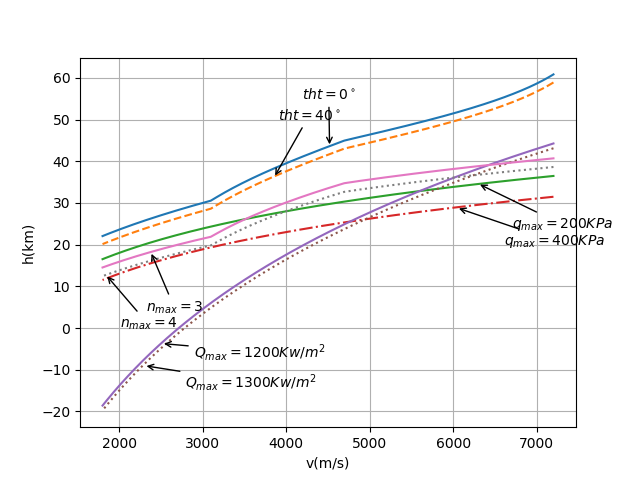
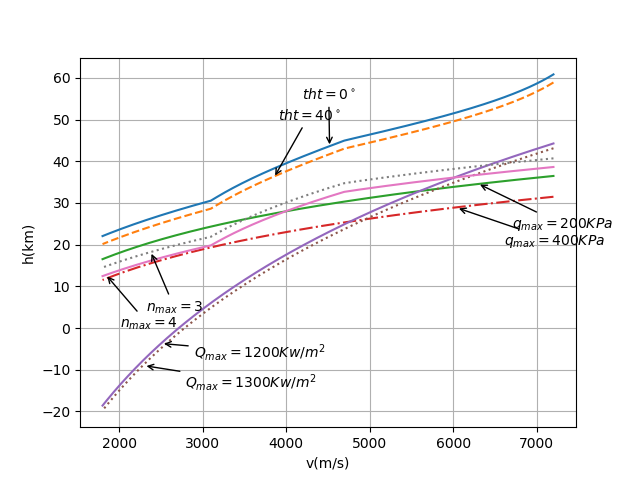
修正模型中复合走廊的单位错误

Changed region(s): [[0.1562, 0.3125, 0.875, 0.5938]]

diff --git a/aircraft_obj.py b/aircraft_obj.py
@@ -221,19 +221,21 @@ class AircraftEnv(CAV):
         # 返回弹道记录
         state_now = self.reset()
         state_record = state_now.copy()
+        control = [22]
         v2h_down = interp1d(self.vv, self.h_down, kind='quadratic')
         v2h_up = interp1d(self.vv, self.h_up, kind='quadratic')
         h_refs = []
         h_cmds = []
         # 追踪参数
-        cmd_p = 0.5
+        cmd_p = 0.8
         cmd_i = 0.2
-        lambda_h = 1
+        lambda_h = 0.01
+        info = {}
         while True:
             v = self.x[3]
             h_ref = (1 - w) * v2h_down(min(v, self.v0)) + w * v2h_up(min(v, self.v0))  # m
             if v > 7000:
-                tht = 0
+                tht = 22 / 57.3
                 h_cmd = h_ref
             else:
                 h_cmd = (1 - cmd_p) * h_cmds[-1] + cmd_p * h_ref + cmd_i * self.delta_t * (h_cmds[-1] - h_refs[-1])
@@ -259,15 +261,17 @@ class AircraftEnv(CAV):
 
                 cos_tht = ((h_dot2 - v_dot * math.sin(theta)) / math.cos(theta) +
                            (g - v ** 2 / r) * math.cos(theta)) * self.m0 / l
-                cos_tht = cos_tht if (-1 <= cos_tht <= 1) else (1 if cos_tht > 1 else -1)
+                cos_tht = cos_tht if (0 <= cos_tht <= 1) else (1 if cos_tht > 1 else 0)
                 tht = math.acos(cos_tht if math.fabs(cos_tht) <= 1 else 1)  # 弧度
             h_refs.append(h_ref)
             h_cmds.append(h_cmd)
-            state_now, reward, done, info = self.step(tht)
+            control.append(tht * 57.3)
+            state_now, reward, done, info = self.step(tht * 57.3)
             state_record = np.vstack((state_record, state_now.copy()))  # 垂直添加
             if done:
                 break
-        return state_record.copy()
+        info['control'] = np.array(control)
+        return state_record.copy(), info
 
     def h2tht(self):
         # 设计倾侧角来跟踪高度
@@ -292,7 +296,7 @@ class AircraftEnv(CAV):
         # 对几个典型的走廊进行对比
         # tht[0,40] n_max[3,4] Q_max[1200,1300] q_max[200,240]
         thts = [0, 40 / 180 * math.pi]
-        n_maxs = [3, 4]
+        n_maxs = [4, 3]
         Q_maxs = [1200, 1300]
         q_maxs = [200, 400]
 
@@ -305,7 +309,8 @@ class AircraftEnv(CAV):
         h_nmax2 = v.copy()
         h_qmax1 = v.copy()
         h_qmax2 = v.copy()
-        h_down = v.copy()  # 下界
+        h_down1 = v.copy()  # 下界
+        h_down2 = v.copy()  # 下界
         h_down_change = v.copy()  # 人为设定的末端下界
         # h的上界值，h太高会掉下来
         h_qegc1 = v.copy()  # 平衡滑翔条件
@@ -323,9 +328,9 @@ class AircraftEnv(CAV):
 
         for i in range(len(v)):
             # 计算三个等式
-            for tht, n_max, Q_max, q_max, h_nmax, h_Qmax, h_qmax, h_qegc in zip(
+            for tht, n_max, Q_max, q_max, h_nmax, h_Qmax, h_qmax, h_qegc, h_down in zip(
                     thts, n_maxs, Q_maxs, q_maxs, [h_nmax1, h_nmax2], [h_Qmax1, h_Qmax2], [h_qmax1, h_qmax2],
-                    [h_qegc1, h_qegc2]):
+                    [h_qegc1, h_qegc2], [h_down1, h_down2]):
                 h_Qmax[i] = 2 * self.beta * math.log((self.C1 * (v[i] / self.Vc) ** 3.15) /
                                                      (Q_max * (self.Rd ** 0.5)))
                 alpha = self.v2alpha(v[i])
@@ -340,18 +345,17 @@ class AircraftEnv(CAV):
                 h_qegc[i] = res.x
                 # 将末端走廊规划到一点，减少一个末端约束
                 if v[i] >= v_change:
-                    h_down_change[i] = h_down[i]
-                    h_qegc_change[i] = h_qegc[i]
+                    h_down_change[i] = h_down1[i]
+                    h_qegc_change[i] = h_qegc1[i]
                 else:
-                    h_down_change[i] = (h_down_change[i - 1] - self.hf) * (v[i] - self.vf) / \
-                                       (v[i - 1] - self.vf) + self.hf
-                    h_qegc_change[i] = (h_qegc_change[i - 1] - self.hf) * (v[i] - self.vf) / \
-                                       (v[i - 1] - self.vf) + self.hf
+                    h_down_change[i] = (h_down_change[i - 1] - self.hf * 1000) * (v[i] - self.vf) / \
+                                       (v[i - 1] - self.vf) + self.hf * 1000
+                    h_qegc_change[i] = (h_qegc_change[i - 1] - self.hf * 1000) * (v[i] - self.vf) / \
+                                       (v[i - 1] - self.vf) + self.hf * 1000
 
         np.savez('corrior_orginal', vv=v, h_down=h_down, h_up=h_qegc)
         np.savez('corrior', vv=v, h_down=h_down_change, h_up=h_qegc_change)
 
-        # 将其显示
         # 画图
         fig_HV = plt.figure()
         ax = fig_HV.add_subplot(111)
@@ -366,9 +370,9 @@ class AircraftEnv(CAV):
                      arrowprops=dict(arrowstyle="->", connectionstyle="arc3"))
         plt.annotate('$q_{max} = %s KPa$' % (q_maxs[1]), (6036, 28.9), (6610, 20),
                      arrowprops=dict(arrowstyle="->", connectionstyle="arc3"))
-        plt.annotate('$n_{max} = %s $' % (n_maxs[0]), (2373.3, 18.43), (2318, 4),
+        plt.annotate('$n_{max} = %s $' % (n_maxs[1]), (2373.3, 18.43), (2318, 4),
                      arrowprops=dict(arrowstyle="->", connectionstyle="arc3"))
-        plt.annotate('$n_{max} = %s $' % (n_maxs[1]), (1834.4, 12.9), (2004, 0),
+        plt.annotate('$n_{max} = %s $' % (n_maxs[0]), (1834.4, 12.9), (2004, 0),
                      arrowprops=dict(arrowstyle="->", connectionstyle="arc3"))
         plt.annotate('$tht = %s^\circ$' % (thts[0]), (4519, 43.4), (4185, 55),
                      arrowprops=dict(arrowstyle="->", connectionstyle="arc3"))

diff --git a/memory.py b/memory.py
@@ -20,6 +20,12 @@ def get_memory(groups_num, load=True):
     np.save('memory.npy', memory)
 
 
+
 if __name__ == '__main__':
     cav = AircraftEnv()
-    get_memory(100, load=False)
+    # get_memory(100, load=False)
+    s, info = cav.hv_w(0.5)
+    cav.plot(s)
+    # fig = plt.figure()
+    # plt.plot(s[:, 3], info['control'])
+    plt.show()
